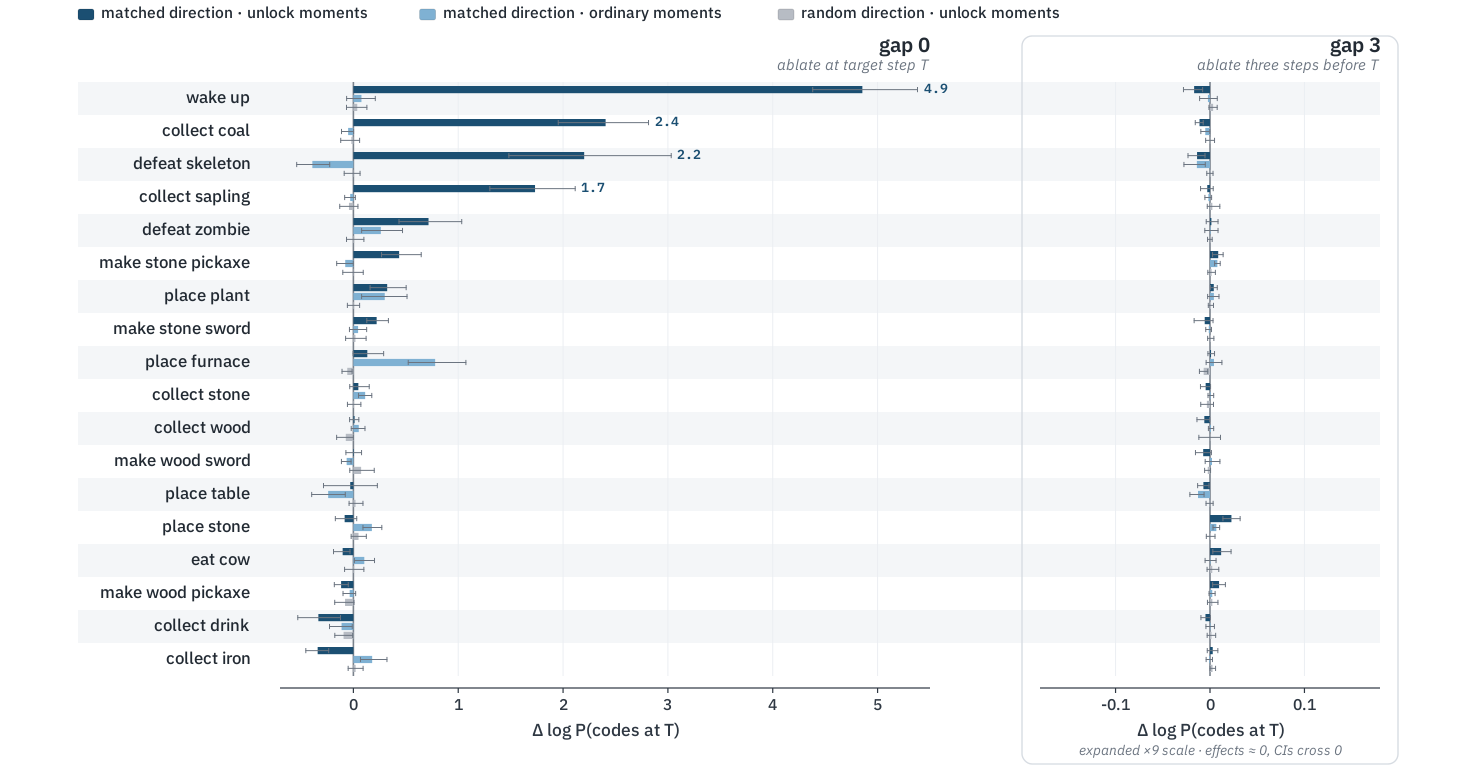
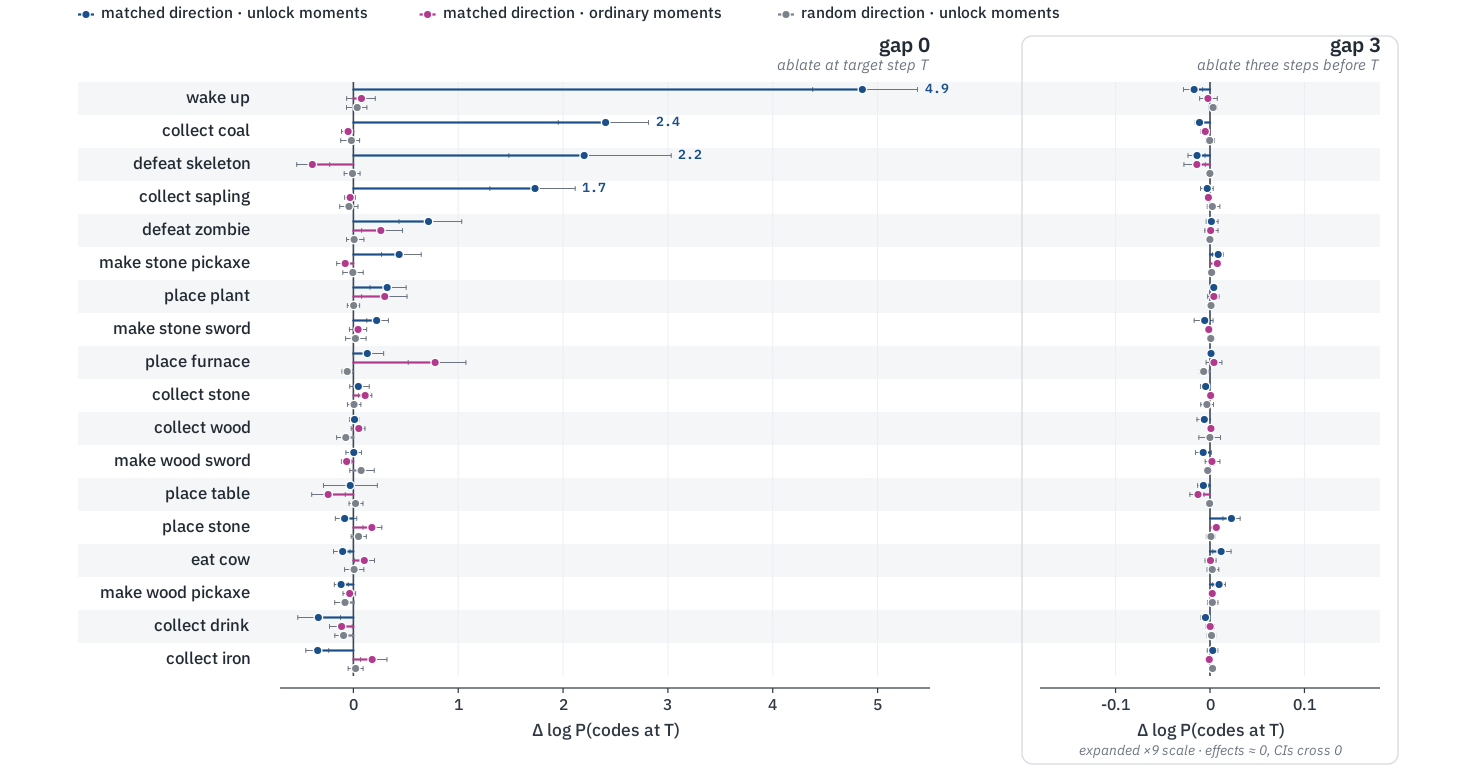
Restyle Fig. 4 to lollipop marks matching Fig. 5 (updated design)
Refresh vendored Fig4 design HTML: lollipop view (dot at mean, stem
from 0, CI whisker) and Fig.5-matched palette (strong blue / magenta /
grey). Generator runs the design's new default view='lollipop'; real
data substitution unchanged. Caption recoloured (light blue -> magenta)
and reworded for markers/whiskers.

diff --git a/paper/design-src/Fig4-Single-Step-Ablation.html b/paper/design-src/Fig4-Single-Step-Ablation.html
@@ -19,7 +19,7 @@
 <body>
 <div class="page" data-screen-label="Fig 4 — single-step ablation">
   <div id="fig"></div>
-  <p class="caption"><b>Fig.&nbsp;4</b>&ensp;<b>Single-step causal ablation.</b> Change in log-likelihood of the observed codes at the target step when the concept&rsquo;s SAE direction is projected out of the block-1 residual stream, at the target step itself <i>(left)</i> or three steps earlier <i>(right)</i>; <i>n</i>&nbsp;=&nbsp;80 moments per bar (26&ndash;29 for two concepts), error bars are bootstrap 95% CIs. <span style="color:#1B4F72;font-weight:600">Deep&nbsp;blue</span>: matched direction at unlock moments. <span style="color:#5E93B8;font-weight:600">Light&nbsp;blue</span>: matched direction at ordinary moments. <span style="color:#878E97;font-weight:600">Grey</span>: random direction at unlock moments. Effects are direction- and moment-selective at gap&nbsp;0 and vanish entirely at gap&nbsp;3.</p>
+  <p class="caption"><b>Fig.&nbsp;4</b>&ensp;<b>Single-step causal ablation.</b> Change in log-likelihood of the observed codes at the target step when the concept&rsquo;s SAE direction is projected out of the block-1 residual stream, at the target step itself <i>(left)</i> or three steps earlier <i>(right)</i>; <i>n</i>&nbsp;=&nbsp;80 moments per bar (26&ndash;29 for two concepts), error bars are bootstrap 95% CIs. <span style="color:#1B4F8A;font-weight:600">Blue</span>: matched direction at unlock moments. <span style="color:#B23A8E;font-weight:600">Magenta</span>: matched direction at ordinary moments. <span style="color:#7C828B;font-weight:600">Grey</span>: random direction at unlock moments. Markers show the mean change; whiskers are bootstrap 95% CIs. Effects are direction- and moment-selective at gap&nbsp;0 and vanish entirely at gap&nbsp;3.</p>
 </div>
 <div id="tweaks-root"></div>
 
@@ -29,19 +29,19 @@
   const SANS = "'IBM Plex Sans', sans-serif";
   const FS = 1.2; // global font scale
 
-  // Academic cool palette — the two matched-direction conditions share a blue
-  // hue (deep = unlock, light = ordinary); random control in neutral grey. No orange.
+  // High-contrast academic palette, matched to Fig. 5. matched·unlock is the
+  // primary effect (strong blue); matched·ordinary magenta-purple; random dark grey.
   const COL = {
-    feat_unlock:   '#1B4F72', // deep blue (primary effect)
-    feat_ordinary: '#7FB1D3', // light blue (matched, ordinary moments)
-    rand_unlock:   '#B7BCC4', // neutral grey (random-direction control)
+    feat_unlock:   '#1B4F8A', // strong blue (primary effect)
+    feat_ordinary: '#B23A8E', // magenta-purple (matched, ordinary moments)
+    rand_unlock:   '#7C828B', // dark grey (random-direction control)
     ink: '#222A33', muted: '#6B7480', axis: '#2E3742', faint: '#D7DCE2',
-    grid: '#EBEEF2', band: '#F4F6F8', zero: '#7A828C'
+    grid: '#EBEEF2', band: '#F4F6F8', zero: '#3A4754'
   };
   const GRAY = {
-    feat_unlock: '#2b2b2b', feat_ordinary: '#9a9a9a', rand_unlock: '#cfcfcf',
+    feat_unlock: '#1f1f1f', feat_ordinary: '#6f6f6f', rand_unlock: '#abafb5',
     ink: '#1a1a1a', muted: '#6b6b6b', axis: '#333333', faint: '#dcdcdc',
-    grid: '#ededed', band: '#f6f6f6', zero: '#8a8a8a'
+    grid: '#ededed', band: '#f6f6f6', zero: '#444444'
   };
 
   const CONCEPTS = [
@@ -246,15 +246,52 @@
       }
       return g.join('');
     }
-    S.push(drawBars(G0, sx0));
-    S.push(drawBars(G3, sx3));
+
+    // ---- lollipop marks (Fig. 5 style): dot at mean, stem from 0, CI whisker
+    function drawDots(data, sx) {
+      const g = [];
+      const laneH = 9, gH = 3 * laneH;
+      for (let i = 0; i < N; i++) {
+        const yc = topY + i * rowH + rowH / 2;
+        const gStart = yc - gH / 2;
+        SERIES.forEach(function (s, j) {
+          const d = data[s.key][i];
+          const ly = gStart + j * laneH + laneH / 2;
+          if (t.showCI) {
+            const xl = sx(d[1]), xh = sx(d[2]);
+            g.push(line(xl, ly, xh, ly, { stroke: C.muted, sw: 1, cap: 'round' }));
+            g.push(line(xl, ly - 2.4, xl, ly + 2.4, { stroke: C.muted, sw: 1 }));
+            g.push(line(xh, ly - 2.4, xh, ly + 2.4, { stroke: C.muted, sw: 1 }));
+          }
+          g.push(line(sx(0), ly, sx(d[0]), ly, { stroke: C[s.key], sw: 2.2, cap: 'round' }));
+          g.push('<circle cx="' + sx(d[0]) + '" cy="' + ly + '" r="4.2" fill="' + C[s.key] + '" stroke="#ffffff" stroke-width="1.3"></circle>');
+          if (t.annotate && s.key === 'feat_unlock' && d[0] >= 1.0) {
+            g.push(txt(sx(d[2]) + 7, ly + 3.6, d[0].toFixed(1), { size: 11, weight: 600, fill: C[s.key], anchor: 'start', mono: true }));
+          }
+        });
+      }
+      return g.join('');
+    }
+
+    if ((t.view || 'lollipop') === 'bars') {
+      S.push(drawBars(G0, sx0));
+      S.push(drawBars(G3, sx3));
+    } else {
+      S.push(drawDots(G0, sx0));
+      S.push(drawDots(G3, sx3));
+    }
 
     // ---- legend (own row, well above the panel headers)
     const lgY = topY - 64;
     let lx = 78;
     const lg = [];
     SERIES.forEach(function (s) {
-      lg.push(rect(lx, lgY - 9, 16, 11, { fill: C[s.key], rx: 2, stroke: 'rgba(0,0,0,0.16)', sw: 0.8 }));
+      if ((t.view || 'lollipop') === 'bars') {
+        lg.push(rect(lx, lgY - 9, 16, 11, { fill: C[s.key], rx: 2, stroke: 'rgba(0,0,0,0.16)', sw: 0.8 }));
+      } else {
+        lg.push(line(lx, lgY - 3.5, lx + 16, lgY - 3.5, { stroke: C[s.key], sw: 2.2 }));
+        lg.push('<circle cx="' + (lx + 8) + '" cy="' + (lgY - 3.5) + '" r="4.2" fill="' + C[s.key] + '" stroke="#ffffff" stroke-width="1.3"></circle>');
+      }
       lg.push(txt(lx + 23, lgY, s.label, { size: 13, fill: C.ink, anchor: 'start' }));
       lx += 30 + s.label.length * 7.0 * FS + 26;
     });
@@ -264,7 +301,7 @@
     document.getElementById('fig').innerHTML = S.join('');
   };
 
-  window.__FIG_DEFAULTS = { showTitle: false, showCI: true, zebra: true, annotate: true, palette: 'color', nullPanel: 'zoom' };
+  window.__FIG_DEFAULTS = { showTitle: false, view: 'lollipop', showCI: true, zebra: true, annotate: true, palette: 'color', nullPanel: 'zoom' };
   document.addEventListener('DOMContentLoaded', function () {
     window.renderFigure(window.__FIG_DEFAULTS);
   });
@@ -278,6 +315,7 @@
 <script type="text/babel">
   const TWEAK_DEFAULTS = /*EDITMODE-BEGIN*/{
     "showTitle": false,
+    "view": "lollipop",
     "showCI": true,
     "zebra": true,
     "annotate": true,
@@ -290,11 +328,13 @@
     React.useEffect(() => { window.renderFigure(t); }, [t]);
     return (
       <TweaksPanel>
+        <TweakSection label="View" />
+        <TweakRadio label="Mark" value={t.view} options={['lollipop', 'bars']} onChange={(v) => setTweak('view', v)} />
         <TweakSection label="Figure" />
         <TweakToggle label="Title inside figure" value={t.showTitle} onChange={(v) => setTweak('showTitle', v)} />
-        <TweakToggle label="95% CI error bars" value={t.showCI} onChange={(v) => setTweak('showCI', v)} />
+        <TweakToggle label={t.view === 'bars' ? '95% CI error bars' : '95% CI whiskers'} value={t.showCI} onChange={(v) => setTweak('showCI', v)} />
         <TweakToggle label="Zebra row banding" value={t.zebra} onChange={(v) => setTweak('zebra', v)} />
-        <TweakToggle label="Annotate large bars" value={t.annotate} onChange={(v) => setTweak('annotate', v)} />
+        <TweakToggle label={t.view === 'bars' ? 'Annotate large bars' : 'Annotate large effects'} value={t.annotate} onChange={(v) => setTweak('annotate', v)} />
         <TweakSection label="Palette" />
         <TweakRadio label="Colors" value={t.palette} options={['color', 'grayscale']} onChange={(v) => setTweak('palette', v)} />
         <TweakSection label="gap 3 panel" />

diff --git a/paper/fig4_from_design.py b/paper/fig4_from_design.py
@@ -34,7 +34,7 @@ SRC = HERE / "design-src" / "Fig4-Single-Step-Ablation.html"
 OUT = HERE / "figures"
 RESULTS = HERE.parent / "results"
 
-TWEAKS = ('{ showTitle: false, showCI: true, zebra: true, '
+TWEAKS = ('{ showTitle: false, view: "lollipop", showCI: true, zebra: true, '
           'annotate: true, palette: "color", nullPanel: "zoom" }')
 
 

diff --git a/paper/sn-article.tex b/paper/sn-article.tex
@@ -217,7 +217,7 @@ Ablating the same directions three steps \emph{before} the target instead (right
 \begin{figure}[t]
 \centering
 \includegraphics[width=\textwidth]{figures/ablation_onestep.pdf}
-\caption{Single-step causal ablation. Change in log-likelihood of the observed codes at the target step when the concept's SAE direction is projected out of the block-1 residual stream, at the target step itself (\emph{gap 0}, left) or three steps earlier (\emph{gap 3}, right); $n{=}80$ moments per bar ($26$--$29$ for two concepts), error bars are bootstrap 95\% CIs. Deep blue: matched direction at unlock moments. Light blue: matched direction at ordinary moments. Grey: random direction at unlock moments. The gap-3 panel is shown on an expanded ($\times 9$) horizontal scale; effects are direction- and moment-selective at gap 0 and vanish entirely at gap 3.}\label{fig:onestep}
+\caption{Single-step causal ablation. Change in log-likelihood of the observed codes at the target step when the concept's SAE direction is projected out of the block-1 residual stream, at the target step itself (\emph{gap 0}, left) or three steps earlier (\emph{gap 3}, right); markers show the mean change, whiskers are bootstrap 95\% CIs, $n{=}80$ moments per condition ($26$--$29$ for two concepts). Blue: matched direction at unlock moments. Magenta: matched direction at ordinary moments. Grey: random direction at unlock moments. The gap-3 panel is shown on an expanded ($\times 9$) horizontal scale; effects are direction- and moment-selective at gap 0 and vanish entirely at gap 3.}\label{fig:onestep}
 \end{figure}
 
 \subsection{Ablation inside imagination}\label{sec:imagination}